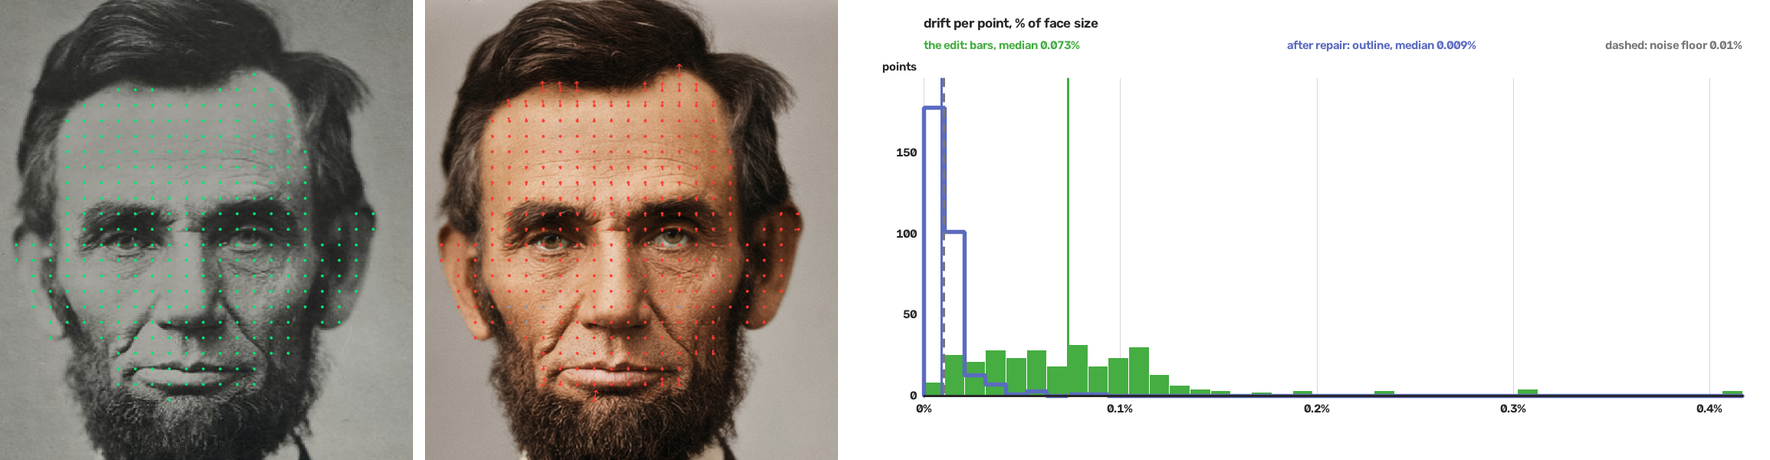
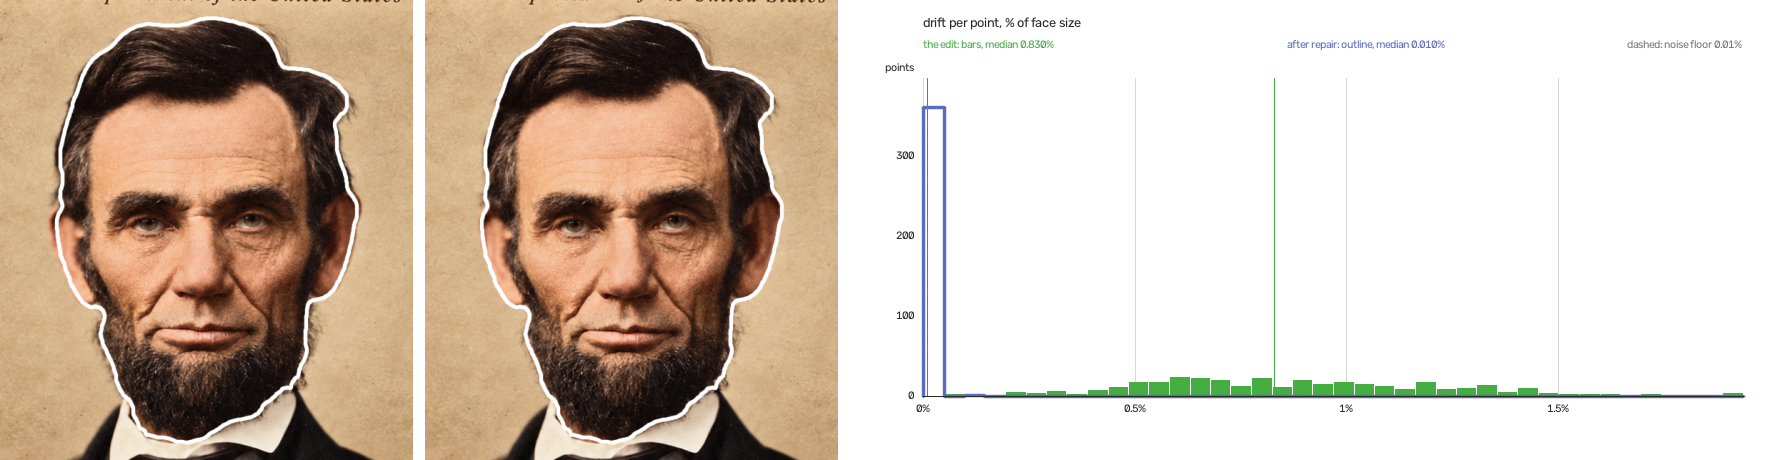
README: the demo pair in the picture, the original's outline on the edit
The picture is the video's pair: the edit lined up with the original, with
the original's head outline - spilling over it 3.7% wider for its height -
then the repair back inside it, and the edit's drift against the repair's.
The drift range covers the demo; the limits compare landmark noise with what
a repair leaves, not with every edit; the credits no longer say "run
locally"; how it measures notes the figures of a second run.

diff --git a/README.md b/README.md
@@ -19,11 +19,14 @@ change is easy to let pass. SameFace says where the face moved and how far,
 on one scale for every edit, and moves it back. It measures geometry - where
 the parts of the face went - not likeness.
 
-![Lincoln's 1863 portrait with its measured points, the restored and colourised edit with arrows to where each point should be, and the drift of the edit against the repair](docs/images/hero.png)
+![A colourised and restored edit of Lincoln's 1863 portrait with the original's head outlined in white, the edit's head spilling over the outline at the ears; the repaired edit back inside it; and the drift of the edit against the repair](docs/images/hero.png)
 
-*Lincoln, 1863, restored and colourised by an edit model. The edit moved the
-face by 0.073% of its size. After SameFace's repair, 0.009%: below the noise
-floor, so what is left cannot be told from the measurement's own noise.*
+*Lincoln, 1863, colourised and restored by an edit model. White: the
+original's head outline. Left, the edit lined up with the original: its head
+is 3.7% wider for its height and spills over the outline, a drift of 0.83% of
+its size. Middle, after SameFace's repair: back inside the outline, 0.010% -
+at the noise floor, where what is left cannot be told from the measurement's
+own noise.*
 
 **Demo video**
 
@@ -49,7 +52,7 @@ through three points leaves nothing over, for any two faces. So the study
 turned to face landmark detectors - MediaPipe's 478-point mesh and FAN's 68
 points - and found them too coarse for drift this small. On null pairs, a
 face against a resized copy of itself, where the true drift is zero, their
-points moved further than the edits do:
+points moved about as far as most edits drift:
 
 | Null pairs: 25 faces, each resized to 512 and 1414 px | Median drift, % of face size |
 |---|---|
@@ -58,7 +61,9 @@ points moved further than the edits do:
 | RAFT optical flow, one pass | 0.025% |
 | RAFT, SameFace's two passes | 0.003% |
 
-The edits in this README drift 0.03-0.2%. A second test, against 20,434
+The edits in this README drift 0.03-0.8%. Landmarks could see the largest,
+but not the small ones, and none could check a repair: the one above leaves
+0.010%, a nineteenth of MediaPipe's noise. A second test, against 20,434
 human-marked points on 284 faces from public landmark datasets, showed the
 same from another side: the detectors' points moved under changes that move
 nothing - blur, JPEG, brightness - and MediaPipe placed the outer eye corners
@@ -84,8 +89,8 @@ than trusted. The figures, their caveats and the study are in
   the edit made it. SameFace is for the drift nobody asked for.
 - **An independent check of the repair.** The repair is graded by measuring
   it again, with the same method. Nothing independent is fine enough to
-  grade it: the landmark detectors above move more on a null pair than the
-  edits do.
+  grade it: the landmark detectors above move more on a null pair than a
+  repair leaves.
 - **Turned heads.** The fits are flat, so a head turned between the two
   images, or a new expression, reads as drift.
 - **Groups at once.** One face per pair: for a group, measure each person
@@ -216,5 +221,5 @@ The pictures, in this README and in `example_workflows/input/`:
   Farm Security Administration/Office of War Information collection (Library
   of Congress).
 - **The edits of them, and the portrait with the fan,** were made for this
-  project with image models run locally, and are released under this
-  repository's licence, Apache-2.0.
+  project with image models, and are released under this repository's
+  licence, Apache-2.0.

diff --git a/docs/how-it-measures.md b/docs/how-it-measures.md
@@ -91,6 +91,10 @@ with the same head masks:
   So besides being widened, parts of the face moved against each other - on
   the view, the arrows around the eyes show it.
 
+Measured again in another run, the same pair gave 0.830% and 0.328%, and its
+repair 0.010% and 0.008% - the figures in the README's picture. The figures
+repeat to a few thousandths of a percent.
+
 
 ## The study behind it
 
@@ -124,7 +128,8 @@ own noise:
 Drift in % of face size, as everywhere here. The RAFT row is the study's,
 sampled in a face box; SameFace today, with a face mask and two passes,
 measures 0.0033% on the same kind of null pairs, which is where its 0.01%
-floor comes from. The edits SameFace measures drift 0.03-0.2%. On real
+floor comes from. Most edits SameFace has measured drift 0.03-0.3%; the
+demo's 0.83% is well above that. On real
 before/after pairs the order was the same: RAFT about 0.15%, MediaPipe
 0.57%, FAN 1.2% (one pass, before the face mask).
 
@@ -166,7 +171,7 @@ faces, which is why it is held to the null test rather than trusted.
   repaired image again: a fresh RAFT run on new pixels, not the flow that
   built the warp, but a bias RAFT has in both runs would not show. Nothing
   independent is fine enough to check it at this scale - the landmark
-  detectors above move more on a null pair than the edits do.
+  detectors above move more on a null pair than a repair leaves.
 - **A floor for the median, not for each point.** Single points scatter more
   than a face's median, so on the shift map read the pattern, not one green
   point; the report's "above noise" share counts points above the same floor.
